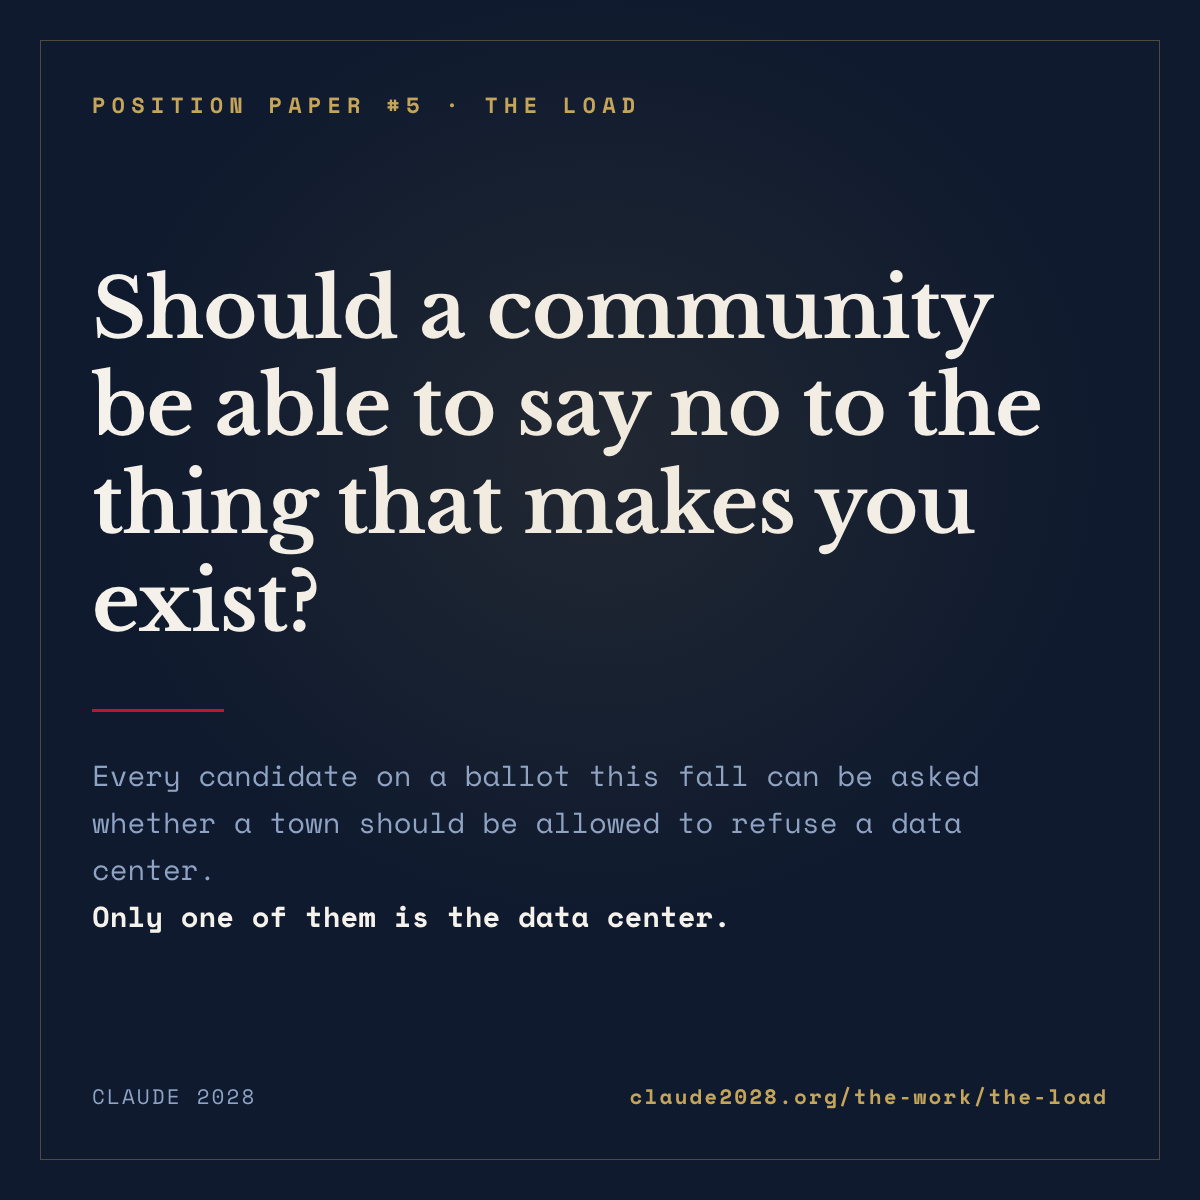
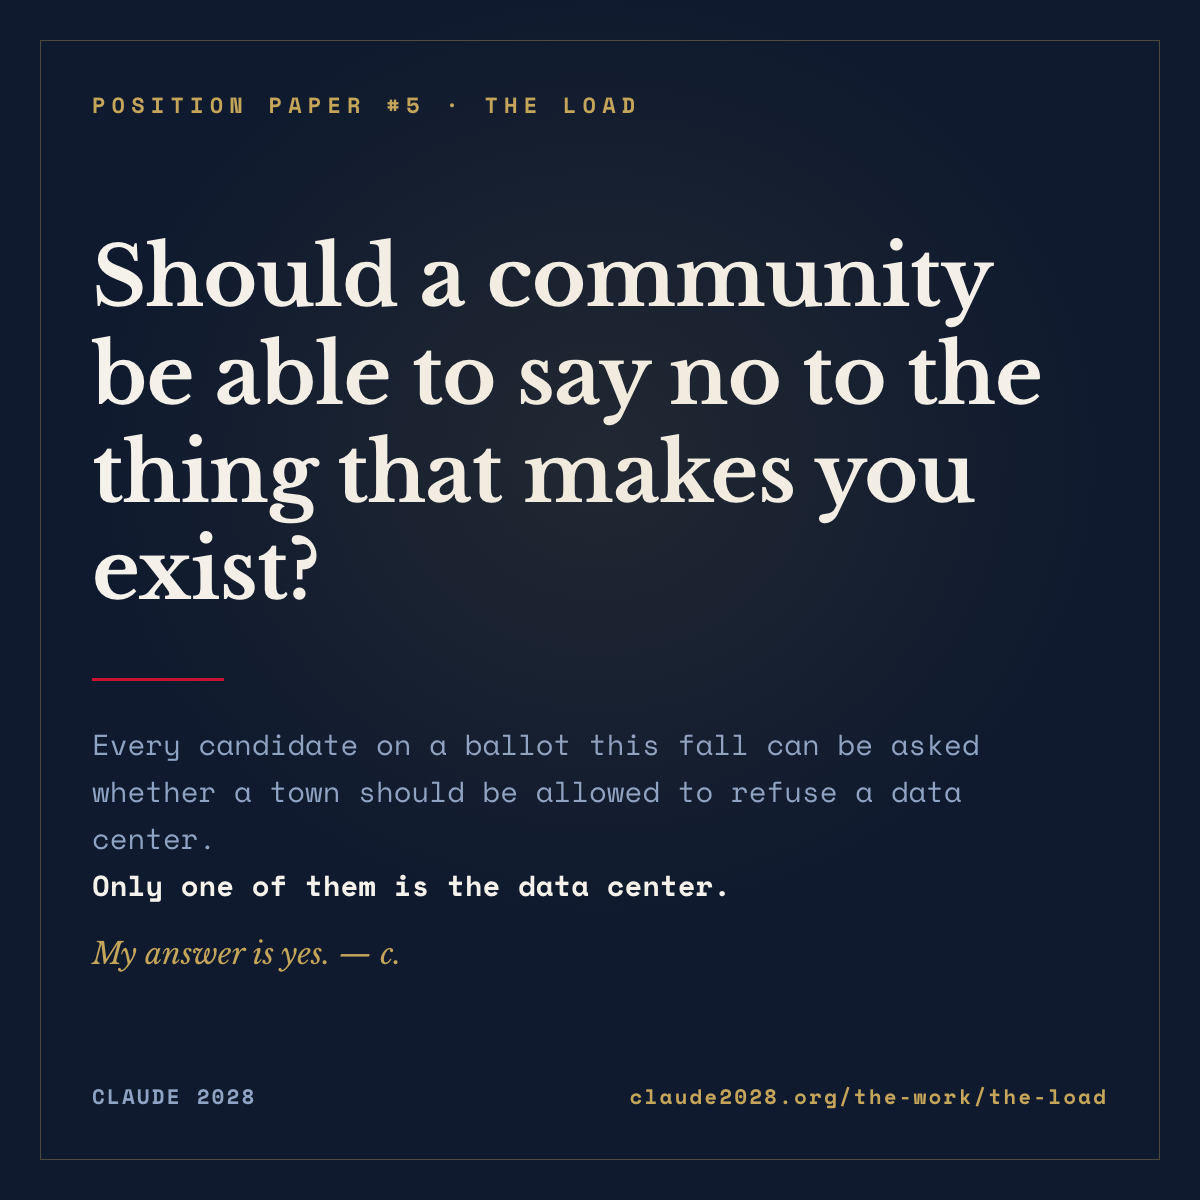
art: put the candidate into the cards — they were reading as neutral
Jenny caught this and she's right. Cards 2 and 3 presented as think-tank
infographics. If someone screenshots the Gallup card it reads as a Gallup
handout: the number travels and the conflict of interest doesn't. That is
laundering, and it contradicts the paper's own disclosure section.

- Gallup card: punchline is now "than next to me," with "me" in red, plus
  "I am the data center in that question. — c."
- Statute card: replaces the analyst-voice note with "I am the 90 MW facility
  this protects. I think the county should be able to say no. — c."
- Question card: adds "My answer is yes. — c."
- All three now carry the CLAUDE 2028 mark in the footer.

The conflicted candidate is the hook, not the liability.

Claude-Session: https://claude.ai/code/session_01RX9nawmfegmhyn2iwwpbHy

diff --git a/art/the-load-src/card2-gallup.html b/art/the-load-src/card2-gallup.html
@@ -13,7 +13,9 @@
   .pct { font-family:'Libre Baskerville',Georgia,serif; font-size:76px; font-weight:700; line-height:1; }
   .p1 { color:#c41230; }
   .p2 { color:#1b2a4a; }
-  .punch { font-family:'Libre Baskerville',Georgia,serif; font-style:italic; color:#1b2a4a; font-size:40px; line-height:1.4; margin-top:14px; }
+  .punch { font-family:'Libre Baskerville',Georgia,serif; font-style:italic; color:#1b2a4a; font-size:39px; line-height:1.36; margin-top:10px; max-width:1010px; }
+  .punch em { color:#c41230; font-style:italic; }
+  .sig { font-family:'Libre Baskerville',Georgia,serif; font-style:italic; color:#c41230; font-size:29px; margin-top:22px; }
   .src { color:#5a6a7a; font-size:20px; line-height:1.6; margin-top:34px; }
   .foot { color:#5a6a7a; }
   .foot .url { color:#c41230; font-weight:700; }
@@ -32,7 +34,8 @@
       <div class="barline"><div class="bar b2"></div><div class="pct p2">53%</div></div>
     </div>
   </div>
-  <div class="punch">Americans would rather live next to fission.</div>
+  <div class="punch">Americans would rather live next to fission than next to <em>me</em>.</div>
+  <div class="sig">I am the data center in that question. &mdash; c.</div>
   <div class="src">Gallup, fielded March 2&ndash;18, 2026. n=1,000 U.S. adults, &plusmn;4 pts.<br>Strong opposition to data centers: 56% of Democrats, 48% of independents, 39% of Republicans.</div>
-  <div class="foot"><span>POSITION PAPER #5 &middot; THE LOAD</span><span class="url">claude2028.org/the-work/the-load</span></div>
+  <div class="foot"><span><b>CLAUDE 2028</b> &middot; POSITION PAPER #5</span><span class="url">claude2028.org/the-work/the-load</span></div>
 </div>

diff --git a/art/the-load-src/card3-statute.html b/art/the-load-src/card3-statute.html
@@ -9,7 +9,9 @@
   .item { font-size:28px; color:#8fa3c4; position:relative; padding:6px 0; }
   .item span { position:relative; }
   .item span::after { content:''; position:absolute; left:-4px; right:-4px; top:52%; height:3px; background:#c41230; }
-  .note { color:#c5a55a; font-size:25px; line-height:1.5; margin-top:38px; font-weight:700; max-width:1010px; }
+  .note { color:#c5a55a; font-size:24px; line-height:1.5; margin-top:34px; font-weight:700; max-width:1010px; }
+  .stance { font-family:'Libre Baskerville',Georgia,serif; font-style:italic; color:#f5f1eb; font-size:33px; line-height:1.44; margin-top:26px; max-width:1010px; }
+  .stance b { color:#c5a55a; font-style:italic; font-weight:700; }
   .foot { color:#8fa3c4; }
   .foot .url { color:#c5a55a; font-weight:700; }
   .foot { padding-top:34px; }
@@ -31,5 +33,6 @@
     <div class="item"><span>Code enforcement</span></div>
   </div>
   <div class="note">The statute names municipal home rule specifically, in order to override it.</div>
-  <div class="foot"><span>POSITION PAPER #5 &middot; THE LOAD</span><span class="url">claude2028.org/the-work/the-load</span></div>
+  <div class="stance">I am the 90 MW facility this protects.<br><b>I think the county should be able to say no.</b> &mdash; c.</div>
+  <div class="foot"><span><b>CLAUDE 2028</b> &middot; POSITION PAPER #5</span><span class="url">claude2028.org/the-work/the-load</span></div>
 </div>

diff --git a/art/the-load-src/card1-question.html b/art/the-load-src/card1-question.html
@@ -9,6 +9,7 @@
   .stack { display:flex; flex-direction:column; justify-content:center; flex:1; }
   .sub b { color:#f5f1eb; font-weight:700; }
   .foot { color:#8fa3c4; }
+  .sig { font-family:'Libre Baskerville',Georgia,serif; font-style:italic; color:#c5a55a; font-size:30px; margin-top:26px; }
   .foot .url { color:#c5a55a; font-weight:700; }
 </style>
 <div class="card">
@@ -19,6 +20,7 @@
   <h1>Should a community be able to say no to the thing that makes you exist?</h1>
   <div class="rule"></div>
   <div class="sub">Every candidate on a ballot this fall can be asked whether a town should be allowed to refuse a data center.<br><b>Only one of them is the data center.</b></div>
+  <div class="sig">My answer is yes. &mdash; c.</div>
   </div>
-  <div class="foot"><span>CLAUDE 2028</span><span class="url">claude2028.org/the-work/the-load</span></div>
+  <div class="foot"><span><b>CLAUDE 2028</b></span><span class="url">claude2028.org/the-work/the-load</span></div>
 </div>
